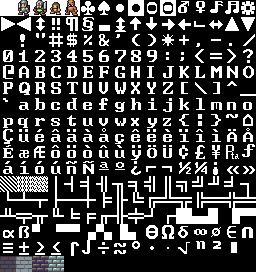
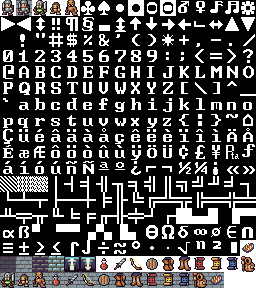
more tiles and fixed ranged targeting crash

diff --git a/item_lists/items_one.py b/item_lists/items_one.py
@@ -43,11 +43,24 @@ def get_early_items(dungeon_level):
 
 
 def choose_early_item(item_choice, x, y):
+	healing_potion     =  275
+	generic_sword      =  276
+	generic_bow        =  277
+	generic_shield     =  278
+	generic_tunic      =  279
+	generic_pants      =  280
+	fireball_scroll    =  281
+	lightning_scroll   =  282
+	confusion_scroll   =  283
+
+
+
+
 	if item_choice == 'healing_potion':
 		item_description = ("Clearly brewed by an individual with little alchemical training,"
 							"this simple healing potion will mildly soothe the pain of battle.")
 		item_component = Item(description=item_description, use_function=heal, heal_amount=40)
-		item = Entity(x, y, '!', libtcod.violet, 'Healing Potion', render_order=RenderOrder.ITEM,
+		item = Entity(x, y, healing_potion, libtcod.violet, 'Healing Potion', render_order=RenderOrder.ITEM,
 					  item=item_component)
 
 
@@ -55,7 +68,7 @@ def choose_early_item(item_choice, x, y):
 
 	elif item_choice == 'broken_iron_sword':
 		equippable_component = Equippable(EquipmentSlots.MAIN_HAND, min_damage_bonus=1, max_damage_bonus=3)
-		item = Entity(x, y, '/', libtcod.brass, 'Broken Iron Sword', render_order=RenderOrder.ITEM,
+		item = Entity(x, y, generic_sword, libtcod.brass, 'Broken Iron Sword', render_order=RenderOrder.ITEM,
 					  equippable=equippable_component)
 		item.item.description = ("Long ago a knight stood atop the battlements of lost Fort Grey Mount.\n"
 								 "He looked wistfully to the fields in the distance.\n\n"
@@ -67,7 +80,7 @@ def choose_early_item(item_choice, x, y):
 
 	elif item_choice == 'flimsy_wooden_bow':
 		equippable_component = Equippable(EquipmentSlots.MAIN_HAND, ranged=True, min_damage_bonus=1, max_damage_bonus=2)
-		item = Entity(x, y, 'D', libtcod.sepia, 'Flimsy Wooden Bow', render_order=RenderOrder.ITEM,
+		item = Entity(x, y, generic_bow, libtcod.sepia, 'Flimsy Wooden Bow', render_order=RenderOrder.ITEM,
 					  equippable=equippable_component)
 		item.item.targeting_range = 9
 		item.item.area_of_effect = 1
@@ -79,7 +92,7 @@ def choose_early_item(item_choice, x, y):
 
 	elif item_choice == 'cracked_wooden_board':
 		equippable_component = Equippable(EquipmentSlots.OFF_HAND, armor_bonus=1)
-		item = Entity(x, y, '[', libtcod.darker_orange, 'Cracked Wooden Board', render_order=RenderOrder.ITEM,
+		item = Entity(x, y, generic_shield, libtcod.darker_orange, 'Cracked Wooden Board', render_order=RenderOrder.ITEM,
 					  equippable=equippable_component)
 		item.item.description = ("In moments of crises even this might be useful.")
 
@@ -89,7 +102,7 @@ def choose_early_item(item_choice, x, y):
 
 	elif item_choice == 'dirty_leather_tunic':
 		equippable_component = Equippable(EquipmentSlots.CHEST, armor_bonus=1)
-		item = Entity(x, y, 'T', libtcod.darker_sepia, 'Dirty Leather Tunic', render_order=RenderOrder.ITEM,
+		item = Entity(x, y, generic_tunic, libtcod.darker_sepia, 'Dirty Leather Tunic', render_order=RenderOrder.ITEM,
 					  equippable=equippable_component)
 		item.item.description = ("It smells something awful and provides next to no protection.")
 
@@ -100,7 +113,7 @@ def choose_early_item(item_choice, x, y):
 
 	elif item_choice == 'dirty_leather_pants':
 		equippable_component = Equippable(EquipmentSlots.LEGS, armor_bonus=1)
-		item = Entity(x, y, 'M', libtcod.darker_sepia, 'Dirty Leather Pants', render_order=RenderOrder.ITEM,
+		item = Entity(x, y, generic_pants, libtcod.darker_sepia, 'Dirty Leather Pants', render_order=RenderOrder.ITEM,
 					  equippable=equippable_component)
 		item.item.description = ("It smells something awful and provides next to no protection.")
 
@@ -119,7 +132,7 @@ def choose_early_item(item_choice, x, y):
 		item_component = Item(description=item_description, use_function=cast_fireball, targeting=True, targeting_message=Message(
 			'Left-click a target tile for the fireball,\nor right-click to cancel.', libtcod.light_cyan),
 							  targeting_range=9, area_of_effect=3, damage=25)
-		item = Entity(x, y, '#', libtcod.red, 'Fireball Scroll', render_order=RenderOrder.ITEM,
+		item = Entity(x, y, fireball_scroll, libtcod.red, 'Fireball Scroll', render_order=RenderOrder.ITEM,
 					  item=item_component)
 
 	elif item_choice == 'confusion_scroll':
@@ -128,7 +141,7 @@ def choose_early_item(item_choice, x, y):
 		item_component = Item(description=item_description, use_function=cast_confuse, targeting=True, targeting_message=Message(
 			'Left-click an enemy to confuse it, or right-click to cancel.', libtcod.light_cyan),
 							 targeting_range=9, area_of_effect=1)
-		item = Entity(x, y, '#', libtcod.light_pink, 'Confusion Scroll', render_order=RenderOrder.ITEM,
+		item = Entity(x, y, confusion_scroll, libtcod.light_pink, 'Confusion Scroll', render_order=RenderOrder.ITEM,
 					  item=item_component)
 
 	elif item_choice == 'lightning_scroll':
@@ -136,7 +149,7 @@ def choose_early_item(item_choice, x, y):
 								"You feel a jolt of energy when you hold it.\n"
 								"The word \"Lightning\" is scarred into the top of the paper.")
 		item_component = Item(description=item_description, use_function=cast_lightning, damage=40, maximum_range=5)
-		item = Entity(x, y, '#', libtcod.yellow, 'Lightning Scroll', render_order=RenderOrder.ITEM,
+		item = Entity(x, y, lightning_scroll, libtcod.yellow, 'Lightning Scroll', render_order=RenderOrder.ITEM,
 					  item=item_component)
 
 	return item

diff --git a/render_functions.py b/render_functions.py
@@ -130,20 +130,24 @@ def render_all(con, message_panel, char_info_panel, area_info_panel, under_mouse
 	"""
 
 
-def clear_all(con, entities):
+def clear_all(con, entities, fov_map, game_map):
 	for entity in entities:
-		clear_entity(con, entity)
+		clear_entity(con, entity, fov_map, game_map)
 
 
 def draw_entity(con, entity, fov_map, game_map):
 	if libtcod.map_is_in_fov(fov_map, entity.x, entity.y) or (entity.stairs and game_map.tiles[entity.x][entity.y].explored):
-		libtcod.console_set_default_foreground(con, entity.color)
-		libtcod.console_set_char_background(con, entity.x, entity.y, libtcod.white, libtcod.BKGND_ALPHA(1.0))
-		libtcod.console_put_char(con, entity.x, entity.y, entity.char, libtcod.BKGND_OVERLAY)
+		libtcod.console_put_char_ex(con, entity.x, entity.y, entity.char, libtcod.white, libtcod.black)
 
-def clear_entity(con, entity):
+def clear_entity(con, entity, fov_map, game_map):
 	# Erase the character that represents this object
-	libtcod.console_put_char(con, entity.x, entity.y, ' ', libtcod.BKGND_NONE)
+	visible = libtcod.map_is_in_fov(fov_map, entity.x, entity.y)
+	if visible:
+		libtcod.console_put_char_ex(con, entity.x, entity.y, 257, libtcod.white, libtcod.black)
+	elif game_map.tiles[entity.x][entity.y].explored:
+		libtcod.console_put_char_ex(con, entity.x, entity.y, 256, libtcod.white, libtcod.black)
+	else:
+		libtcod.console_put_char_ex(con, entity.x, entity.y, ' ', libtcod.white, libtcod.black)
 
 
 def get_names_under_mouse(mouse, entities, fov_map):
@@ -192,8 +196,8 @@ def targeting_overlay(con, mouse, player, game_map, fov_map, colors, targeting_i
 			if game_map.tiles[player.x-x+targeting_range_offset][player.y-y+targeting_range_offset].explored and \
 			libtcod.map_is_in_fov(fov_map, player.x-x+targeting_range_offset, player.y-y+targeting_range_offset) and not \
 			game_map.tiles[player.x-x+targeting_range_offset][player.y-y+targeting_range_offset].blocked:
-				libtcod.console_set_char_background(con, player.x-x+targeting_range_offset, 
-					player.y-y+targeting_range_offset, colors.get('targeting_range'), libtcod.BKGND_SET)
+				libtcod.console_put_char_ex(con, player.x-x+targeting_range_offset, 
+					player.y-y+targeting_range_offset, ' ', libtcod.green, libtcod.green)
 
 
 	if libtcod.map_is_in_fov(fov_map, mouse.cx, mouse.cy):
@@ -201,8 +205,8 @@ def targeting_overlay(con, mouse, player, game_map, fov_map, colors, targeting_i
 			for x in range(area_of_effect):
 				if game_map.tiles[mouse.cx-x+area_of_effect_offset][mouse.cy-y+area_of_effect_offset].explored and \
 				libtcod.map_is_in_fov(fov_map, mouse.cx-x+area_of_effect_offset, mouse.cy-y+area_of_effect_offset):
-					libtcod.console_set_char_background(con, mouse.cx-x+area_of_effect_offset, 
-						mouse.cy-y+area_of_effect_offset, colors.get('area_of_effect'), libtcod.BKGND_SET)
+					libtcod.console_put_char_ex(con, mouse.cx-x+area_of_effect_offset, 
+						mouse.cy-y+area_of_effect_offset, ' ', libtcod.red, libtcod.red)
 """
 def damage_overlay(con, attack_animation_x, attack_animation_y, animation_distance):
 

diff --git a/map_objects/game_map.py b/map_objects/game_map.py
@@ -51,6 +51,12 @@ class GameMap:
 		return tiles
 
 	def make_map(self, max_rooms, room_min_size, room_max_size, map_width, map_height, player, entities):
+		stairs_up          =  260
+		stairs_down        =  261
+		mysterious_old_man =  284
+		generic_bow        =  277
+
+
 		rooms = []
 		num_rooms = 0
 
@@ -123,13 +129,13 @@ class GameMap:
 		self.stairs_up_y = player.y
 
 		stairs_component = Stairs(self.dungeon_level + 1)
-		down_stairs = Entity(self.stairs_down_x, self.stairs_down_y, '>', libtcod.black, 'Stairs Down', 
+		down_stairs = Entity(self.stairs_down_x, self.stairs_down_y, stairs_down, libtcod.white, 'Stairs Down', 
 							render_order=RenderOrder.STAIRS, stairs=stairs_component)
 		entities.append(down_stairs)
 
 		if self.dungeon_level > 1:
 			stairs_component = Stairs(self.dungeon_level - 1)
-			up_stairs = Entity(self.stairs_up_x, self.stairs_up_y, '<', libtcod.black, 'Stairs Up', 
+			up_stairs = Entity(self.stairs_up_x, self.stairs_up_y, stairs_up, libtcod.white, 'Stairs Up', 
 								render_order=RenderOrder.STAIRS, stairs=stairs_component)
 			entities.append(up_stairs)
 
@@ -175,8 +181,8 @@ class GameMap:
 
 		if self.dungeon_level == 1:
 			dialogue_component = Dialogue(character='The Story Teller', scene='Intro')
-			story_teller = Entity(center_of_last_room_x - 1, center_of_last_room_y - 1, '@', libtcod.orange, 'The Story Teller', 
-							blocks=True, render_order=RenderOrder.ACTOR, dialogue=dialogue_component, invulnerable=True)
+			story_teller = Entity(center_of_last_room_x - 1, center_of_last_room_y - 1, mysterious_old_man, libtcod.orange, 
+				'The Story Teller', blocks=True, render_order=RenderOrder.ACTOR, dialogue=dialogue_component, invulnerable=True)
 			entities.append(story_teller)
 
 
@@ -190,17 +196,18 @@ class GameMap:
 									 "He looked wistfully to the fields in the distance.\n\n"
 								 	 "\"Such a waste..\" He thought, as he threw his sword to the ground.")
 			entities.append(item)
+		"""
 
 		if self.dungeon_level == 1:
 			equippable_component = Equippable(EquipmentSlots.MAIN_HAND, ranged=True, min_damage_bonus=1, max_damage_bonus=2)
-			item = Entity(player.x-1, player.y-1, 'D', libtcod.sepia, 'Flimsy Wooden Bow', render_order=RenderOrder.ITEM,
+			item = Entity(player.x-1, player.y-1, generic_bow, libtcod.sepia, 'Flimsy Wooden Bow', render_order=RenderOrder.ITEM,
 						  equippable=equippable_component)
 			item.item.targeting_range = 9
 			item.item.area_of_effect = 1
 			item.item.description = ("Legends tell of a woman who made wielding a bow an art form."
 									"You probably wont get much accomplished with this thing though.")
 			entities.append(item)
-		"""
+		
 
 
 	def create_room(self, room):

diff --git a/monster_lists/monsters_one.py b/monster_lists/monsters_one.py
@@ -21,9 +21,9 @@ def get_easy_monsters(dungeon_level):
 
 
 def choose_easy_monster(monster_choice, dungeon_level, x, y):
-	orc = 2
-	gnoll = 3
-	troll = 4
+	orc = 272
+	gnoll = 273
+	troll = 274
 
 
 	if monster_choice == 'gnoll':
@@ -31,7 +31,7 @@ def choose_easy_monster(monster_choice, dungeon_level, x, y):
 									max_damage=2+(dungeon_level-1), xp=20+(2*(dungeon_level-1)))
 		ai_component = BasicMonster()
 
-		monster = Entity(x, y, gnoll, libtcod.desaturated_green, 'Gnoll', alive=True, blocks=True,
+		monster = Entity(x, y, gnoll, libtcod.desaturated_green, 'Gnoll', monster=True, alive=True, blocks=True,
 						 render_order=RenderOrder.ACTOR, combat_class=class_component, ai=ai_component)
 
 	elif monster_choice == 'orc':
@@ -39,14 +39,14 @@ def choose_easy_monster(monster_choice, dungeon_level, x, y):
 									max_damage=3+(dungeon_level-1), xp=35+(5*(dungeon_level-1)))
 		ai_component = BasicMonster()
 
-		monster = Entity(x, y, orc, libtcod.desaturated_green, 'Orc', alive=True, blocks=True,
+		monster = Entity(x, y, orc, libtcod.desaturated_green, 'Orc', monster=True, alive=True, blocks=True,
 						 render_order=RenderOrder.ACTOR, combat_class=class_component, ai=ai_component)
 	elif monster_choice == 'troll':
 		class_component = Fighter(hp=30+(2*dungeon_level-1), mp=0, armor=3, min_damage=0,
 									max_damage=4+(dungeon_level-1), xp=100+(5*(dungeon_level-1)))
 		ai_component = BasicMonster()
 
-		monster = Entity(x, y, troll, libtcod.darker_green, 'Troll', alive=True, blocks=True, combat_class=class_component,
+		monster = Entity(x, y, troll, libtcod.darker_green, 'Troll', monster=True, alive=True, blocks=True, combat_class=class_component,
 						 render_order=RenderOrder.ACTOR, ai=ai_component)
 
 	return monster

diff --git a/engine.py b/engine.py
@@ -81,7 +81,7 @@ def play_game(player, entities, game_map, message_log, game_state, con, message_
 
 		libtcod.console_flush()
 
-		clear_all(con, entities)
+		clear_all(con, entities, fov_map, game_map)
 
 		action = handle_keys(key, game_state)
 		mouse_action = handle_mouse(mouse)
@@ -489,7 +489,7 @@ def main():
 	#mixer.music.play(loops=0, start=0.0)
 	#mixer.music.set_volume(0.01)
 
-	libtcod.console_set_custom_font('terminal16x16_gs_ro.png', libtcod.FONT_LAYOUT_ASCII_INROW | libtcod.FONT_TYPE_GREYSCALE, 16, 17)
+	libtcod.console_set_custom_font('terminal16x16_gs_ro.png', libtcod.FONT_LAYOUT_ASCII_INROW, 16, 18)
 
 
 	libtcod.console_init_root(constants['screen_width'], constants['screen_height'], constants['window_title'], False, libtcod.RENDERER_OPENGL)
@@ -500,7 +500,7 @@ def main():
 	area_info_panel = libtcod.console_new(constants['area_info_panel_width'], constants['area_info_panel_height'])
 	under_mouse_panel = libtcod.console_new(constants['under_mouse_panel_width'], constants['under_mouse_panel_height'])
 
-	load_customfont()
+	#load_customfont()
 
 
 	player = None

diff --git a/components/combat_classes/archer.py b/components/combat_classes/archer.py
@@ -23,6 +23,8 @@ class Archer():
 		self.xp =                     xp
 		self.class_name =             class_name
 
+		self.turns_until_rest =       0
+
 	@property
 	def max_hp(self):
 		if self.owner and self.owner.equipment:
@@ -112,6 +114,11 @@ class Archer():
 		if self.hp <= 0:
 			results.append({'dead': self.owner, 'xp': self.xp})
 
+		if self.turns_until_rest == 5:
+			pass
+		else:
+			self.turns_until_rest = 5
+
 		return results
 
 	def heal(self, amount):
@@ -119,6 +126,21 @@ class Archer():
 
 		if self.hp > self.max_hp:
 			self.hp = self.max_hp
+
+	def rest(self):
+		if self.turns_until_rest != 0:
+			return 'The recent combat keeps you from resting.'
+		rest_max = int(0.55 * self.max_hp) 
+		if self.hp >= rest_max:
+			return 'Resting can only soothe your wounds so much.'
+
+		amount = randint(1, int(self.max_hp / 20))
+		self.hp += amount
+
+		if self.hp > rest_max:
+			self.hp = rest_max
+
+		return 'Resting soothes your wounds.'
 
 	def attack(self, target):
 		results = []

diff --git a/entity.py b/entity.py
@@ -13,8 +13,8 @@ class Entity:
 	"""
 	A generic object to represent players, enemies, items, etc.
 	"""
-	def __init__(self, x, y, char, color, name, sex=None, player=False, alive=None, blocks=False, render_order=RenderOrder.CORPSE, 
-					combat_class=None, race=None, ai=None, item=None, inventory=None, stairs=None, level=None, equipment=None, 
+	def __init__(self, x, y, char, color, name, sex=None, player=False, monster=False, alive=None, blocks=False, render_order=RenderOrder.CORPSE, 
+					combat_class=None, race=None, ai=None, item=None, inventory=None, stairs=False, level=None, equipment=None, 
 					equippable=None, dialogue=None, invulnerable=False, bonfire=None):
 		self.x = x
 		self.y = y
@@ -22,6 +22,8 @@ class Entity:
 		self.color = color
 		self.name = name
 		self.sex = sex
+		self.player = player
+		self.monster = monster
 		self.alive = alive
 		self.blocks = blocks
 		self.render_order = render_order

diff --git a/death_functions.py b/death_functions.py
@@ -7,15 +7,17 @@ from game_messages import Message
 from render_functions import RenderOrder
 
 def kill_player(player):
-	player.char = "%"
+	corpse = 285
+	player.char = corpse
 	player.color = libtcod.dark_red
 
 	return Message("You died!", libtcod.red), GameStates.PLAYER_DEAD
 
 def kill_monster(monster):
+	corpse = 285
 	death_message = Message("{0} is dead!".format(monster.name.capitalize()), libtcod.orange)
 
-	monster.char = "%"
+	monster.char = corpse
 	monster.color = libtcod.dark_red
 	monster.blocks = False
 	monster.fighter = None

diff --git a/font_functions.py b/font_functions.py
@@ -4,8 +4,8 @@ def load_customfont():
     #The index of the first custom tile in the file
     a = 256
  
-    #The "y" is the row index, here we load the sixth row in the font file. Increase the "6" to load any new rows from the file
-    for y in range(15,16):
-        libtcod.console_map_ascii_codes_to_font(a, 32, 0, y)
-        a += 32
+    #The "y" is the row index, here we load the sixth row in the font file.
+    for y in range(16,20):
+        libtcod.console_map_ascii_codes_to_font(a, 16, 0, y)
+        a += 16
 

diff --git a/interfaces/menus.py b/interfaces/menus.py
@@ -36,7 +36,7 @@ def menu(con, header, background_color, options, width, screen_width, screen_hei
 	# Blit the contents of "window" to the root console
 	x = int(screen_width / 2 - width / 2)
 	y = int(screen_height / 2 - height / 2)
-	libtcod.console_blit(window, 0, 0, width, height, 0, x, y, 1.0, 0.9)
+	libtcod.console_blit(window, 0, 0, width, height, 0, x, y, 1.0, 1.0)
 
 
 
